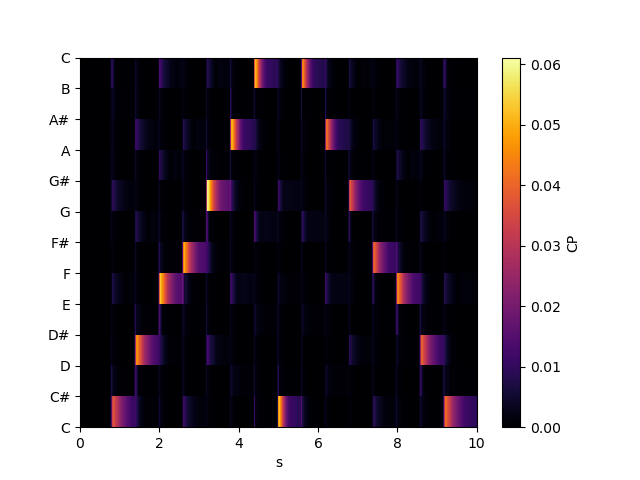
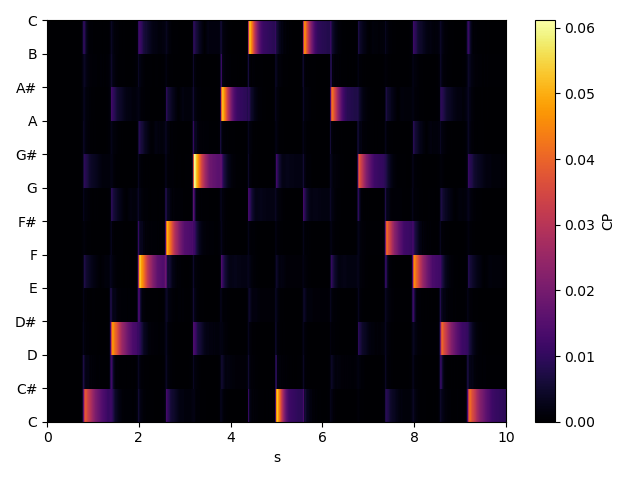
Update examples

diff --git a/examples/face.py b/examples/face.py
@@ -54,7 +54,15 @@ def main():
     plot.gca().yaxis.set_major_locator(ticker.IndexLocator(qdft.size//10, 0))
     plot.gca().yaxis.set_major_formatter(lambda i, _: round(qdft.frequencies[int(i) % qdft.size]))
 
+    plot.tight_layout()
+
     plot.show()
+
+    # plot.plot(np.arange(x.size) / sr, x)
+    # plot.xlabel('s')
+    # plot.ylim(-1.1, +1.1)
+    # plot.tight_layout()
+    # plot.show()
 
 
 if __name__ == '__main__':

diff --git a/examples/cmajor.py b/examples/cmajor.py
@@ -46,7 +46,15 @@ def main():
     plot.gca().yaxis.set_major_locator(ticker.IndexLocator(1, 0))
     plot.gca().yaxis.set_major_formatter(lambda i, _: chroma.notes[int(i) % chroma.size])
 
+    plot.tight_layout()
+
     plot.show()
+
+    # plot.plot(np.arange(x.size) / sr, x)
+    # plot.xlabel('s')
+    # plot.ylim(-0.35, +0.35)
+    # plot.tight_layout()
+    # plot.show()
 
 
 if __name__ == '__main__':

diff --git a/README.md b/README.md
@@ -25,6 +25,7 @@ Forward and inverse Constant-Q Sliding DFT according to [[1]](#1) with following
 | QDFT | Chroma12 |
 | ---- | ---- |
 | ![SDFT](https://github.com/jurihock/qdft/raw/main/examples/face.png) | ![STFT](https://github.com/jurihock/qdft/raw/main/examples/cmajor.png) |
+| ![SDFT](https://github.com/jurihock/qdft/raw/main/examples/face.wav.png) | ![STFT](https://github.com/jurihock/qdft/raw/main/examples/cmajor.wav.png) |
 | `face.py` | `cmajor.py` |
 
 ## See also
